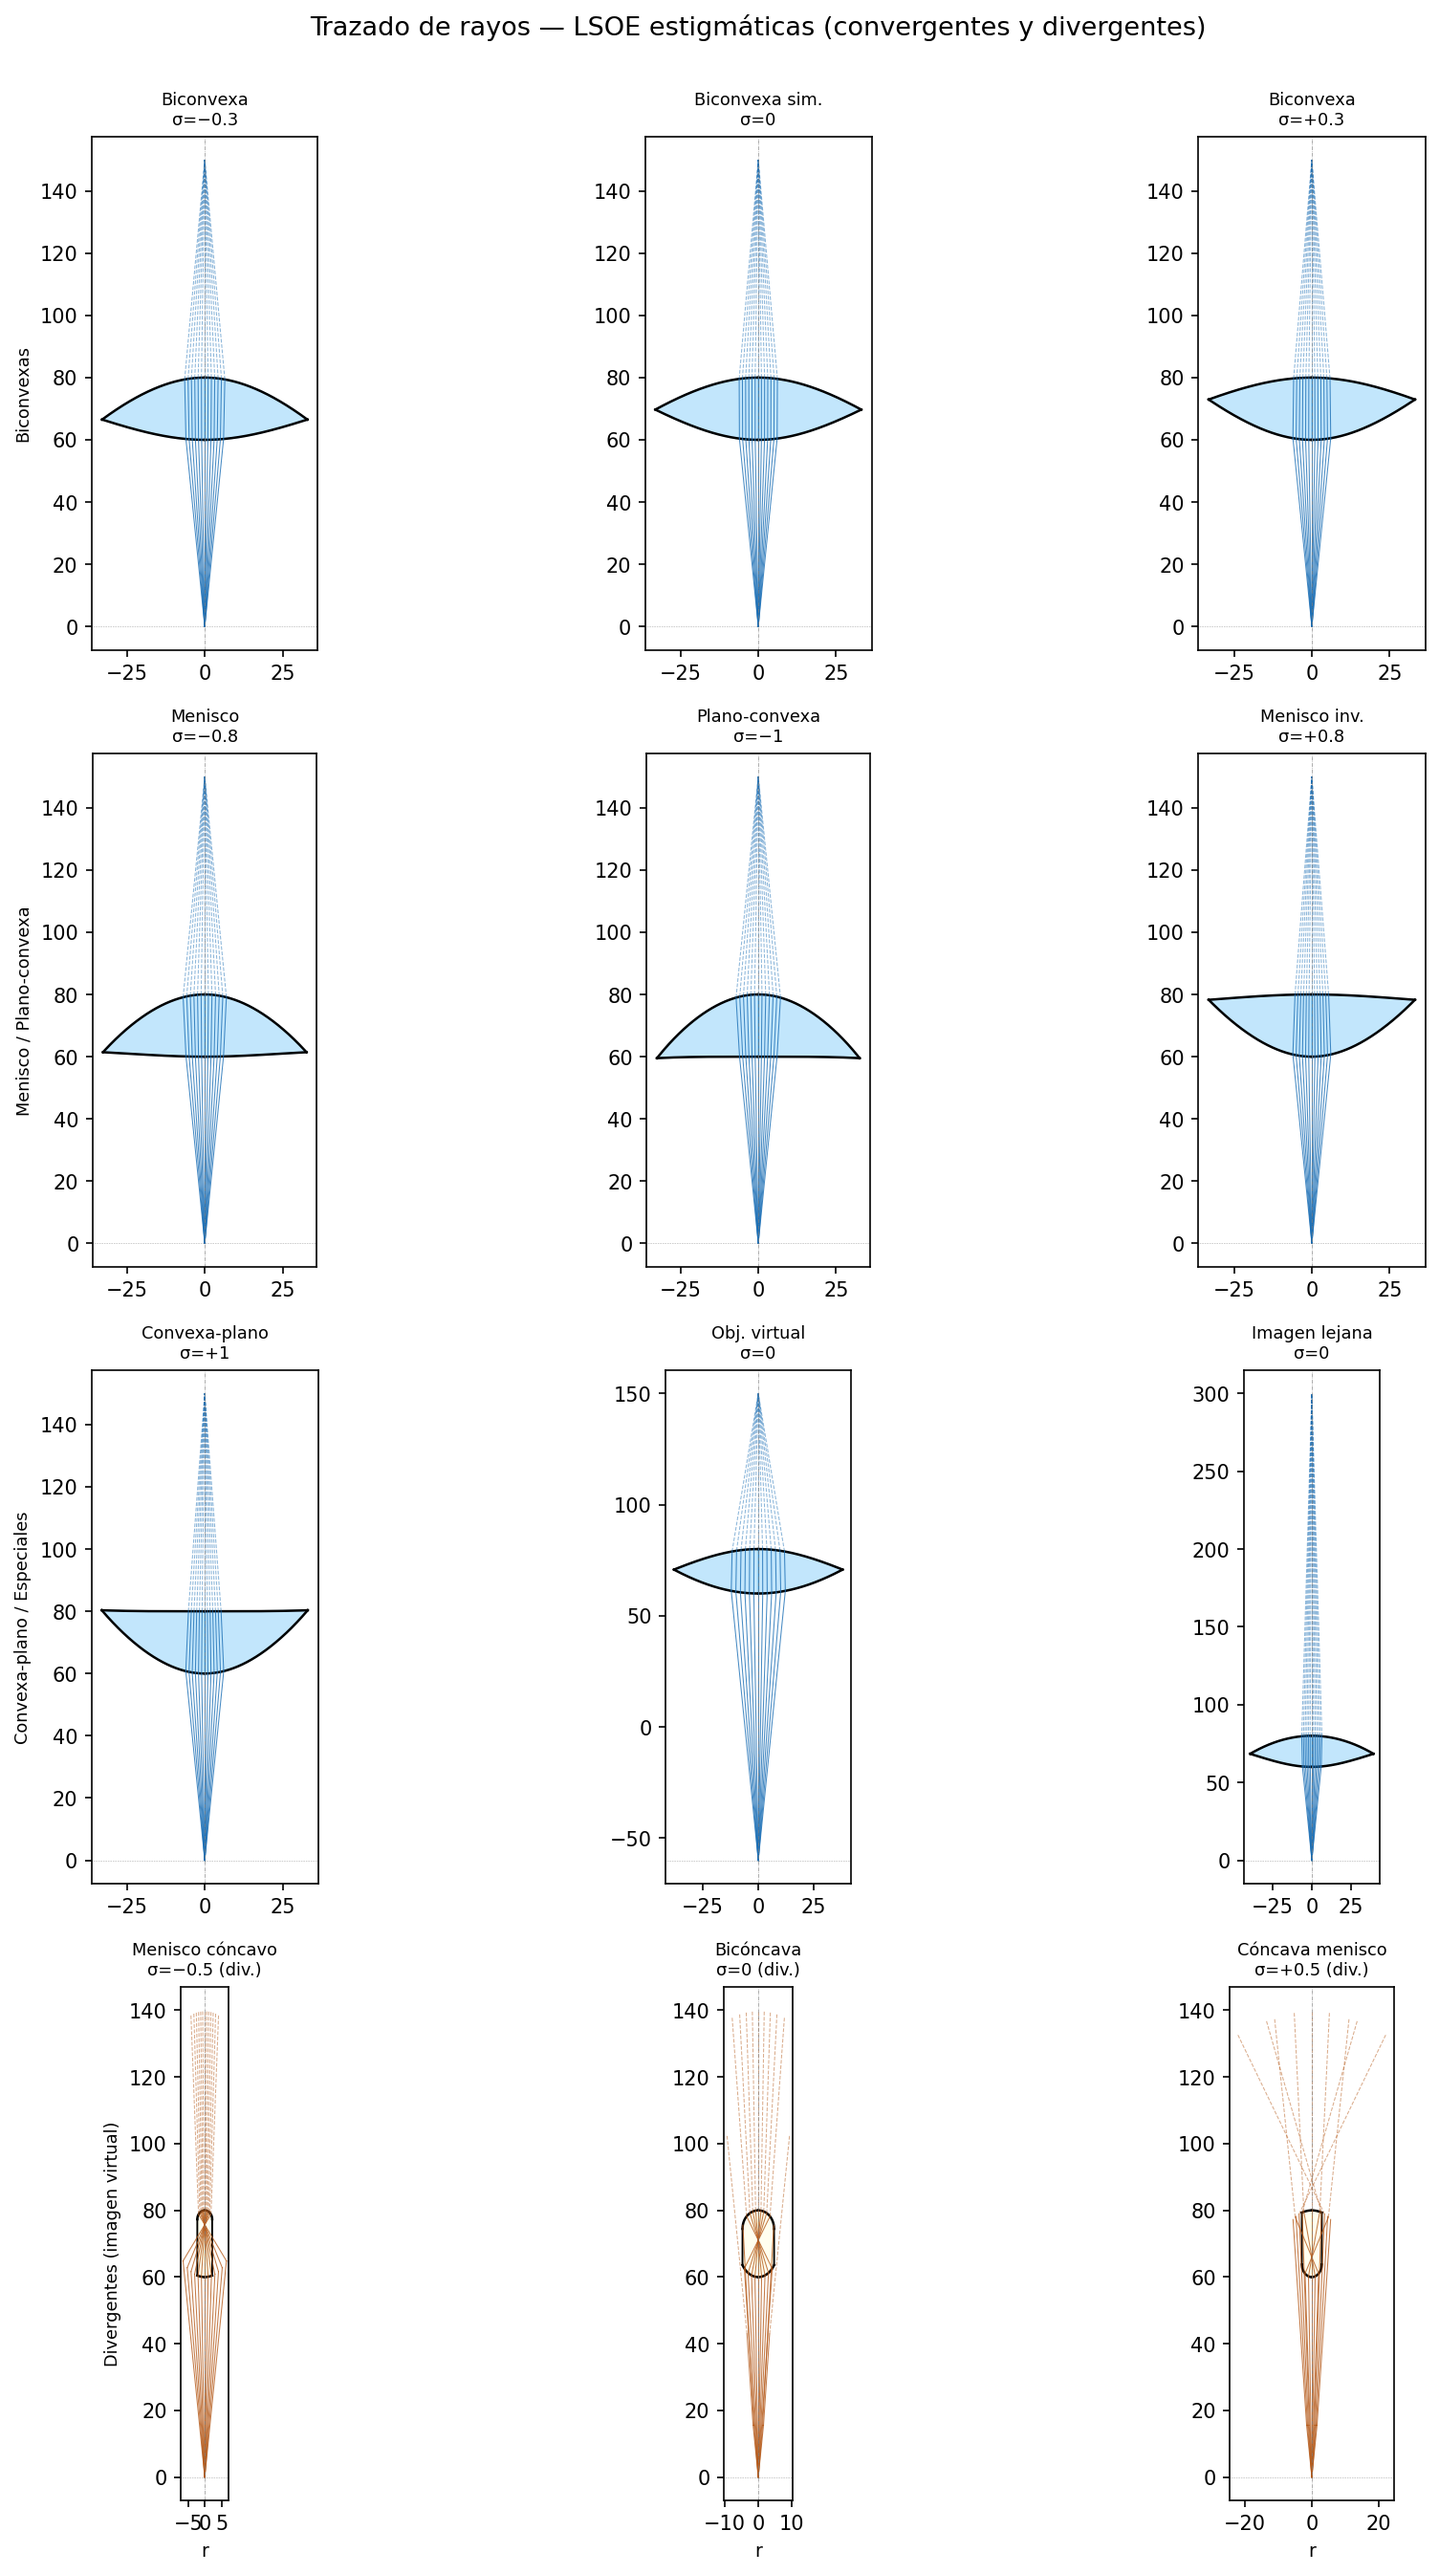
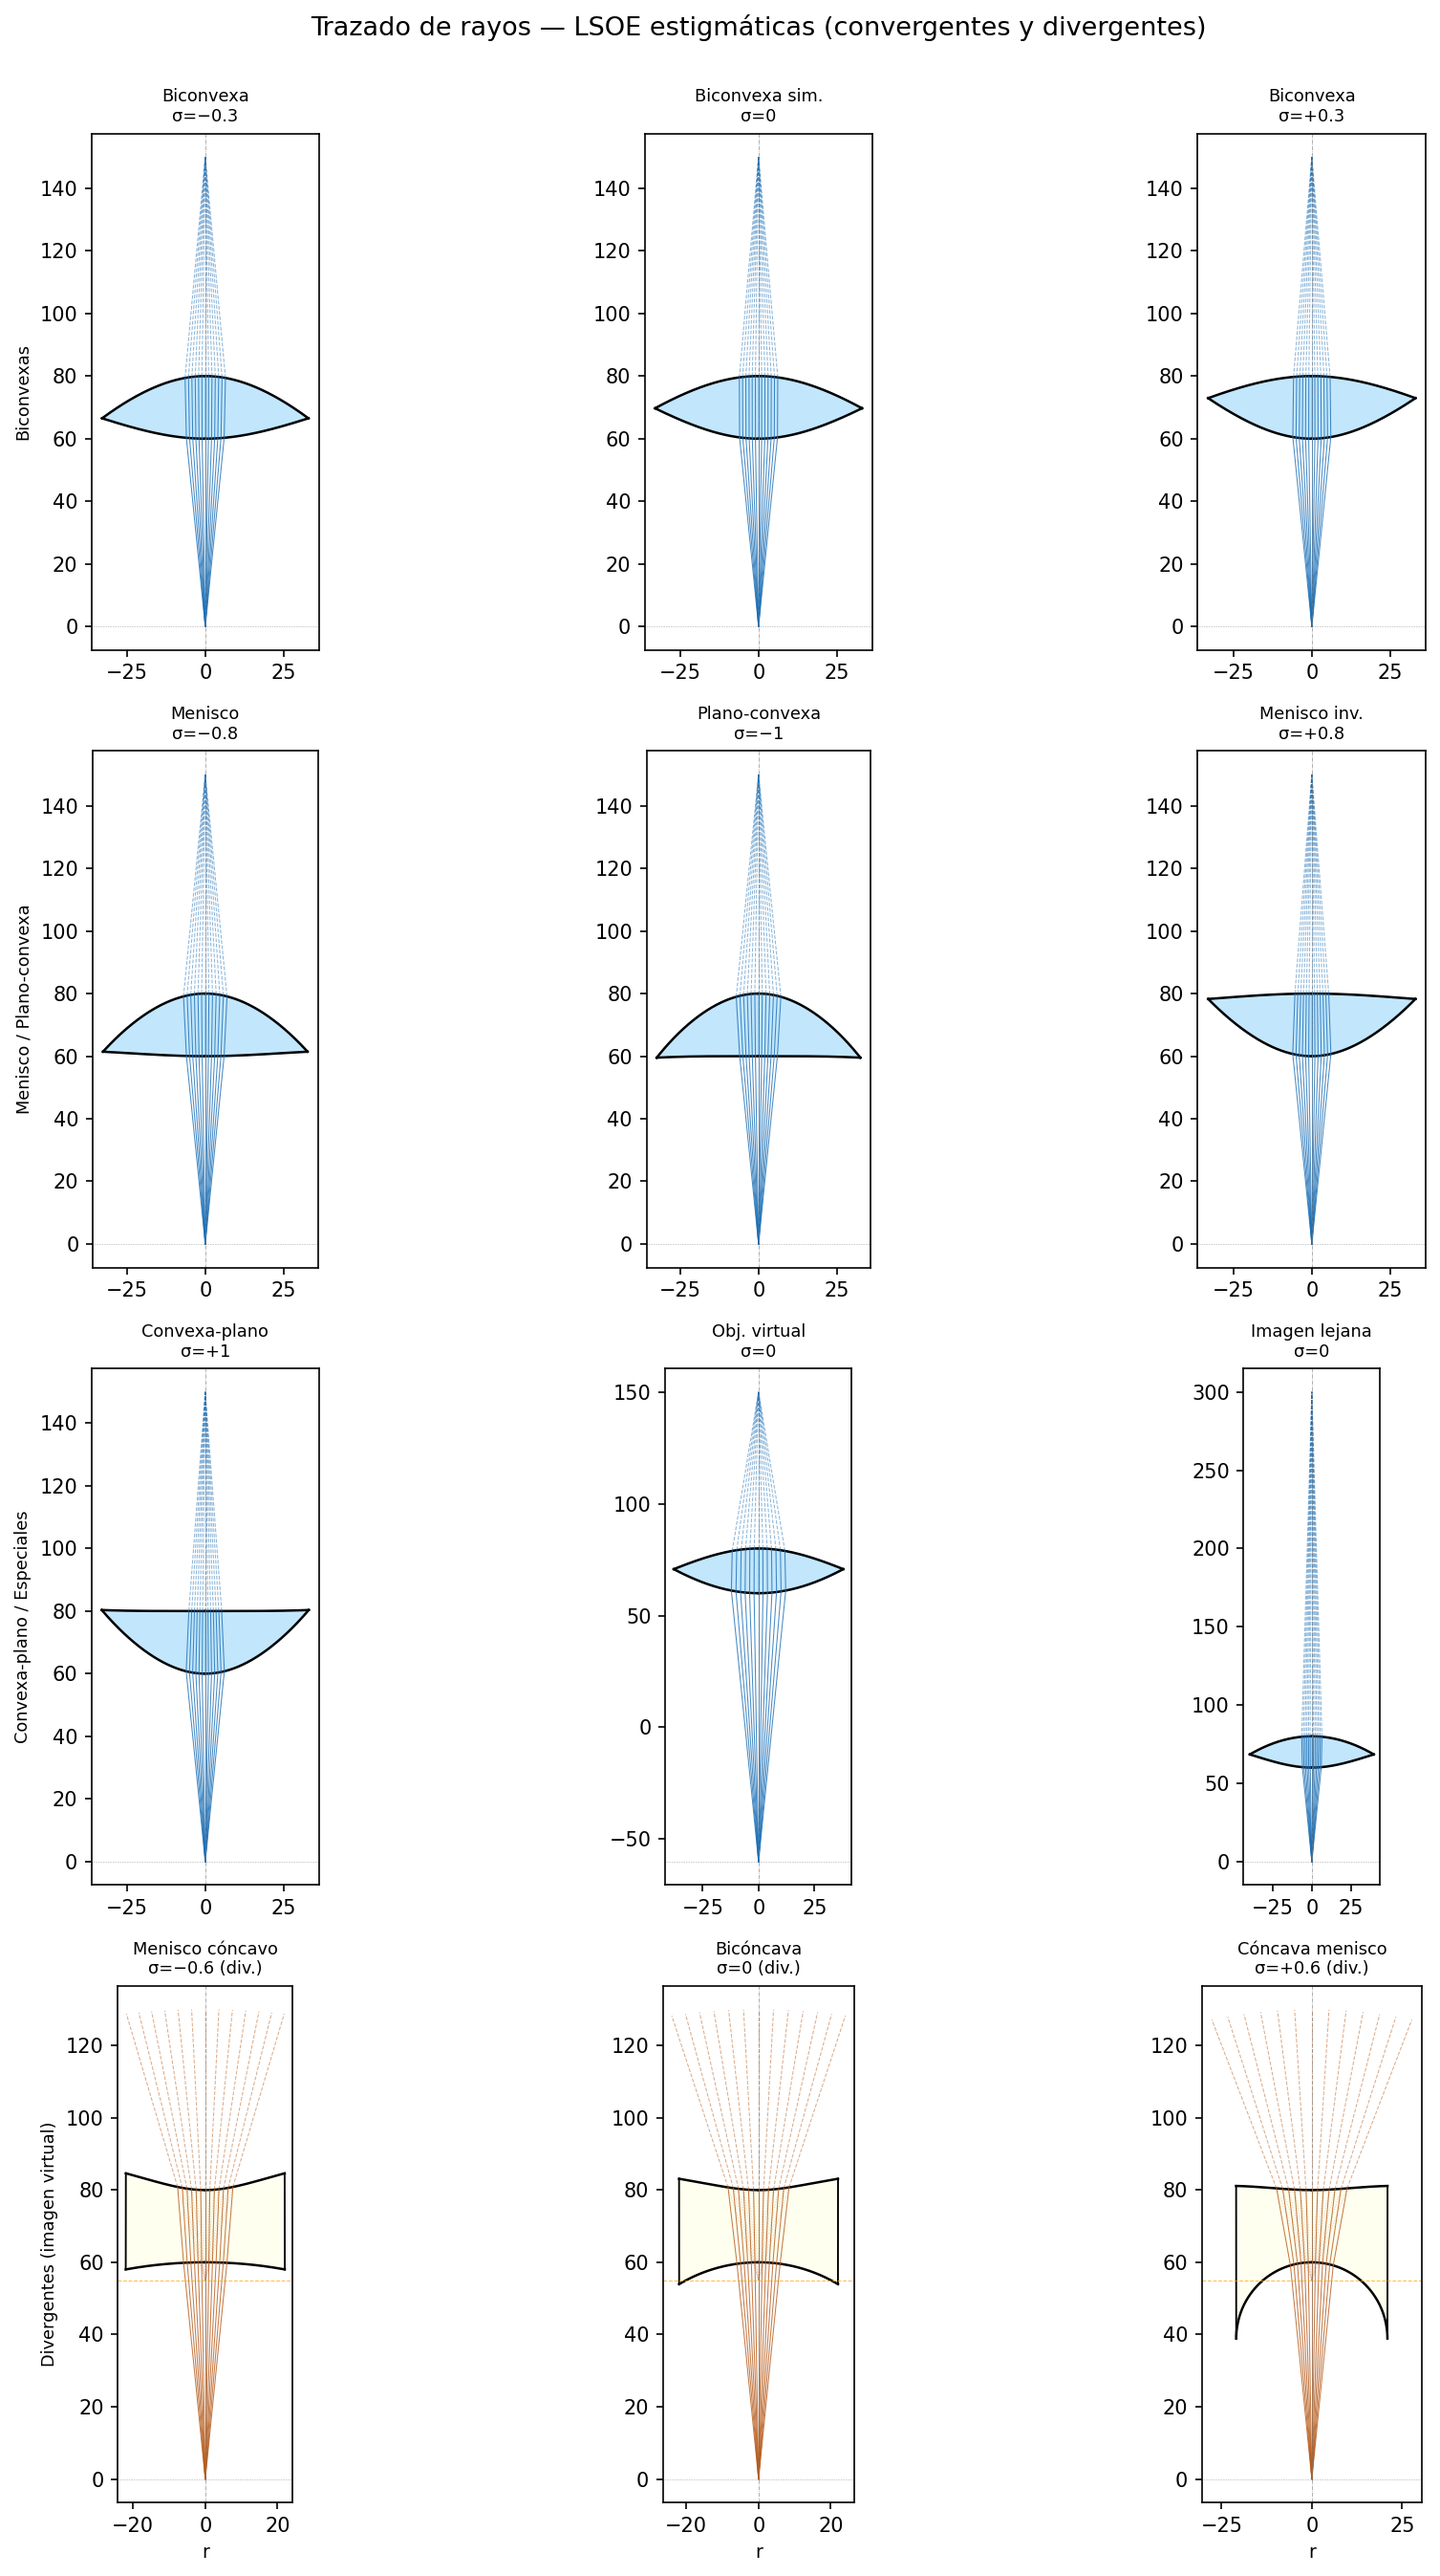
Fix diverging LSOE: correct root selection and biconcave visualization
- gots/sistema_optico.py: _d1_desde_sigma now always selects d₁ OUTSIDE
  [ζ₀, ζ₁]; previously always returned d1_plus, which for d₂<ζ₀ configs
  fell inside the interval and produced the wrong (converging) curvature sign
- ejemplos/ejemplo_fig10.py: diverging row now uses d₂=55 (< ζ₀=60), giving
  O₀<0 / O₁>0 (biconcave shapes with sag ≈ 2–10 mm) comparable to converging
  lenses; aperture capped at 22 mm since biconcave surfaces never cross;
  backward dotted extensions toward virtual focus added for diverging rays
- README: document diverging LSOE physics and root-selection rule

diff --git a/Python/RayTracing/ejemplos/ejemplo_fig10.py b/Python/RayTracing/ejemplos/ejemplo_fig10.py
@@ -44,12 +44,14 @@ CONVERGENTES = [
     (0, 300, 60, 80, 1.0, 1.7, 1.0,  0.0, "Imagen lejana\nσ=0"),
 ]
 
-# Fila 4: lentes divergentes (imagen virtual: d2 < ζ0)
-# sigma=±1 degeneran con d2=30 (d1 cae exactamente en un vértice de superficie)
+# Fila 4: lentes divergentes (imagen virtual: d2=55 < ζ0=60)
+# d2 cercano pero menor a ζ0 produce cóncavidades visibles con sag comparable
+# a las lentes convergentes. sigma=−0.6 → cóncavo-menisco; σ=0 → bicóncava;
+# sigma=+0.6 → menisco-cóncavo
 DIVERGENTES = [
-    (0,  30, 60, 80, 1.0, 1.7, 1.0, -0.5, "Menisco cóncavo\nσ=−0.5 (div.)"),
-    (0,  30, 60, 80, 1.0, 1.7, 1.0,  0.0, "Bicóncava\nσ=0 (div.)"),
-    (0,  30, 60, 80, 1.0, 1.7, 1.0,  0.5, "Cóncava menisco\nσ=+0.5 (div.)"),
+    (0,  55, 60, 80, 1.0, 1.7, 1.0, -0.6, "Menisco cóncavo\nσ=−0.6 (div.)"),
+    (0,  55, 60, 80, 1.0, 1.7, 1.0,  0.0, "Bicóncava\nσ=0 (div.)"),
+    (0,  55, 60, 80, 1.0, 1.7, 1.0,  0.6, "Cóncava menisco\nσ=+0.6 (div.)"),
 ]
 
 CONFIGURACIONES = CONVERGENTES + DIVERGENTES
@@ -81,6 +83,11 @@ def trazar_y_dibujar(ax, config, exportar_stl_flag=False):
     try:
         aperturas = sistema.encontrar_apertura()
         r_max = aperturas[0] if aperturas else 25.0
+        # Para lentes divergentes (bicóncavas), las superficies no se cruzan:
+        # encontrar_apertura devuelve el r_max del óvalo (muy grande). Se acota
+        # a un radio físicamente razonable similar al de las lentes convergentes.
+        if divergente:
+            r_max = min(r_max, 22.0)
 
         sup0 = sistema.superficies[0]
         sup1 = sistema.superficies[1]
@@ -101,6 +108,8 @@ def trazar_y_dibujar(ax, config, exportar_stl_flag=False):
         ax.fill(-r_c, z_c, color=color_lente, alpha=0.5)
 
         # Borde de la lente (arista)
+        # Convergente: arista delgada (z0[-1] > z1[-1] no, z0 > z1 perpendicularmente)
+        # Divergente: la lente es más gruesa en el borde — el borde cierra el cuerpo
         ax.plot([r0[-1], r1[-1]], [z0[-1], z1[-1]], 'k-', linewidth=0.9)
         ax.plot([-r0[-1], -r1[-1]], [z0[-1], z1[-1]], 'k-', linewidth=0.9)
 
@@ -126,7 +135,7 @@ def trazar_y_dibujar(ax, config, exportar_stl_flag=False):
                 pf = res.puntos[-1]
                 df = res.direcciones[-1]
                 if not divergente:
-                    # Convergente: extender hasta la imagen (d_2)
+                    # Convergente: extender hasta la imagen real (d_2)
                     if abs(df[2]) > 1e-12:
                         t_ext = (d_2 - pf[2]) / df[2]
                         if t_ext > 0:
@@ -135,15 +144,26 @@ def trazar_y_dibujar(ax, config, exportar_stl_flag=False):
                                     color=color_rayo, linewidth=0.5,
                                     alpha=0.5, linestyle='--')
                 else:
-                    # Divergente: extender 60 unidades para mostrar divergencia
-                    pe = pf + 60.0 * df
-                    ax.plot([pf[1], pe[1]], [pf[2], pe[2]],
+                    # Divergente: extender 50 unidades hacia adelante (divergencia real)
+                    pe_fwd = pf + 50.0 * df
+                    ax.plot([pf[1], pe_fwd[1]], [pf[2], pe_fwd[2]],
                             color=color_rayo, linewidth=0.5,
                             alpha=0.5, linestyle='--')
+                    # Extensión hacia atrás: trazar hasta el foco virtual en d_2
+                    if abs(df[2]) > 1e-12:
+                        t_back = (d_2 - pf[2]) / df[2]  # t_back < 0 (hacia atrás)
+                        if t_back < 0:
+                            pe_back = pf + t_back * df
+                            ax.plot([pf[1], pe_back[1]], [pf[2], pe_back[2]],
+                                    color=color_rayo, linewidth=0.5,
+                                    alpha=0.3, linestyle=':')
 
         # Ejes
         ax.axhline(y=d_0, color='gray', linewidth=0.3, linestyle=':')
         ax.axvline(x=0, color='gray', linewidth=0.3, linestyle='-.')
+        if divergente:
+            # Plano de imagen virtual
+            ax.axhline(y=d_2, color='orange', linewidth=0.5, linestyle='--', alpha=0.7)
         ax.set_title(desc, fontsize=8.5)
         ax.set_aspect('equal')
 

diff --git a/Python/RayTracing/gots/sistema_optico.py b/Python/RayTracing/gots/sistema_optico.py
@@ -224,9 +224,22 @@ def _d1_desde_sigma(sigma, zeta_0, zeta_1, d_0, d_2, n_0, n_1, n_2):
 
     sqrt_disc = np.sqrt(discriminante)
 
-    # Eq. 43: signo - da d_1 ∈ [ζ_0, ζ_1], signo + da d_1 fuera (caso típico)
     d1_minus = (-C1 - sqrt_disc) / (2 * C2)
-    d1_plus = (-C1 + sqrt_disc) / (2 * C2)
+    d1_plus  = (-C1 + sqrt_disc) / (2 * C2)
 
-    # Seleccionar la raíz fuera de [ζ_0, ζ_1] (imagen intermedia virtual/lejana)
-    return d1_plus
+    # Seleccionar siempre la raíz FUERA de [ζ_0, ζ_1].
+    # Para lentes convergentes (d₂>ζ₁): d1_plus está fuera → imagen intermedia lejana.
+    # Para lentes divergentes (d₂<ζ₀):  d1_plus cae dentro → usar d1_minus (fuera).
+    lo, hi = min(zeta_0, zeta_1), max(zeta_0, zeta_1)
+    inside_plus  = lo < d1_plus  < hi
+    inside_minus = lo < d1_minus < hi
+
+    if not inside_plus:
+        return d1_plus
+    elif not inside_minus:
+        return d1_minus
+    else:
+        # Ambas raíces dentro (degenerado): elegir la más lejana del intervalo
+        dist_plus  = min(abs(d1_plus  - lo), abs(d1_plus  - hi))
+        dist_minus = min(abs(d1_minus - lo), abs(d1_minus - hi))
+        return d1_plus if dist_plus >= dist_minus else d1_minus

diff --git a/Python/RayTracing/README.md b/Python/RayTracing/README.md
@@ -31,6 +31,8 @@ From plano-convex (σ = −1) to convex-plano (σ = +1).
 
 ### Ray-tracing gallery — convergent and divergent lenses (Fig. 10)
 Blue lenses: converging (real image). Yellow lenses: diverging (virtual image, d₂ < ζ₀).
+Diverging lenses show **biconcave/concave-meniscus** shapes with rays spreading after the lens;
+dashed backward extensions converge at the virtual focus.
 
 ![Galería Fig. 10](docs/fig10_lsoe.png)
 
@@ -75,6 +77,13 @@ python ejemplos/ejemplo_fig10.py --stl    # export one STL per lens
 4×3 panel with 12 LSOE configurations:
 - Rows 1–3: converging lenses (biconvex, meniscus, plano-convex, virtual object, …)
 - Row 4: **diverging lenses** (virtual image, d₂ < ζ₀) — biconcave and concave-meniscus shapes
+
+**How diverging LSOE works:** setting d₂ slightly below ζ₀ (e.g. d₂=55 with ζ₀=60) produces
+surfaces with O₀ < 0 (first surface concave, curves away from object) and O₁ > 0 (second
+surface also concave from the exit side). The lens is thicker at the rim than at the center.
+Rays refracted through both surfaces diverge; their backward extensions converge at the virtual
+focus d₂. Root selection in the σ-formula always chooses d₁ **outside** [ζ₀, ζ₁] to guarantee
+the correct sign of curvature.
 
 ---
 
